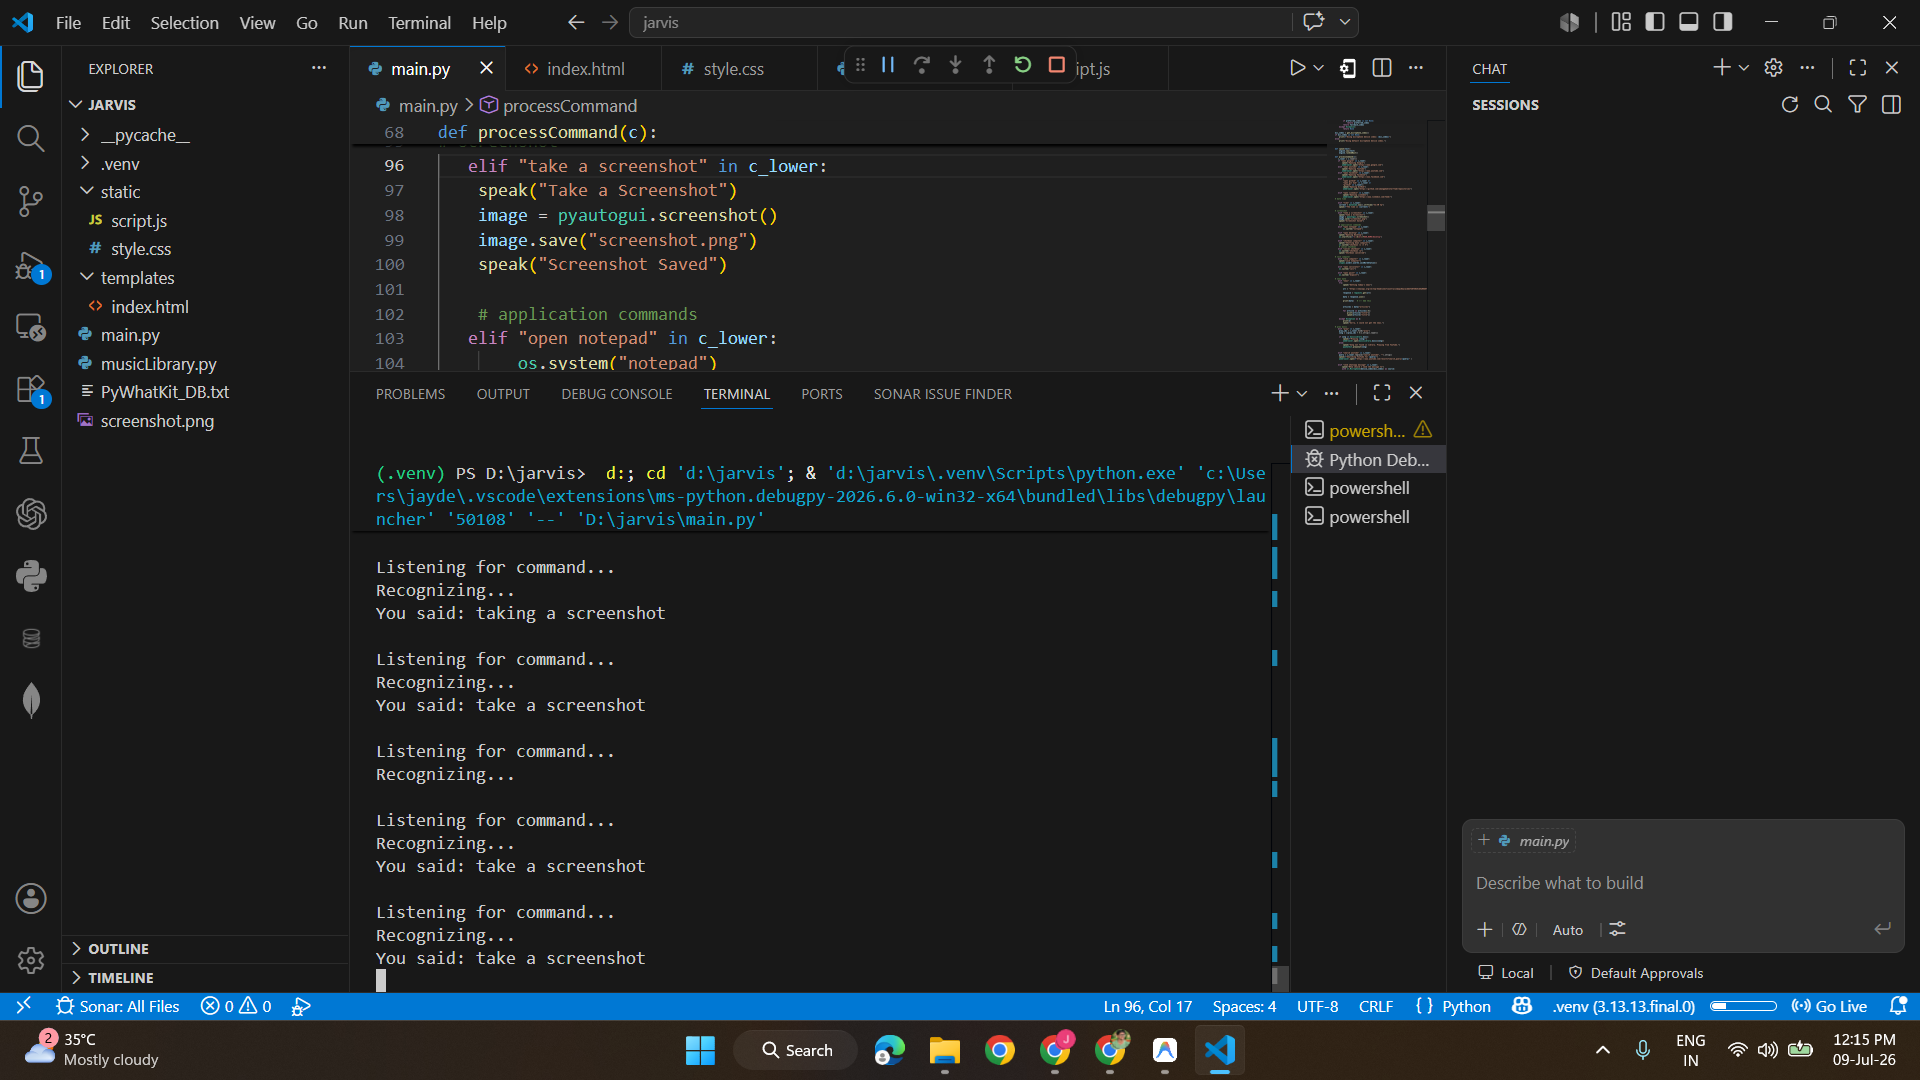
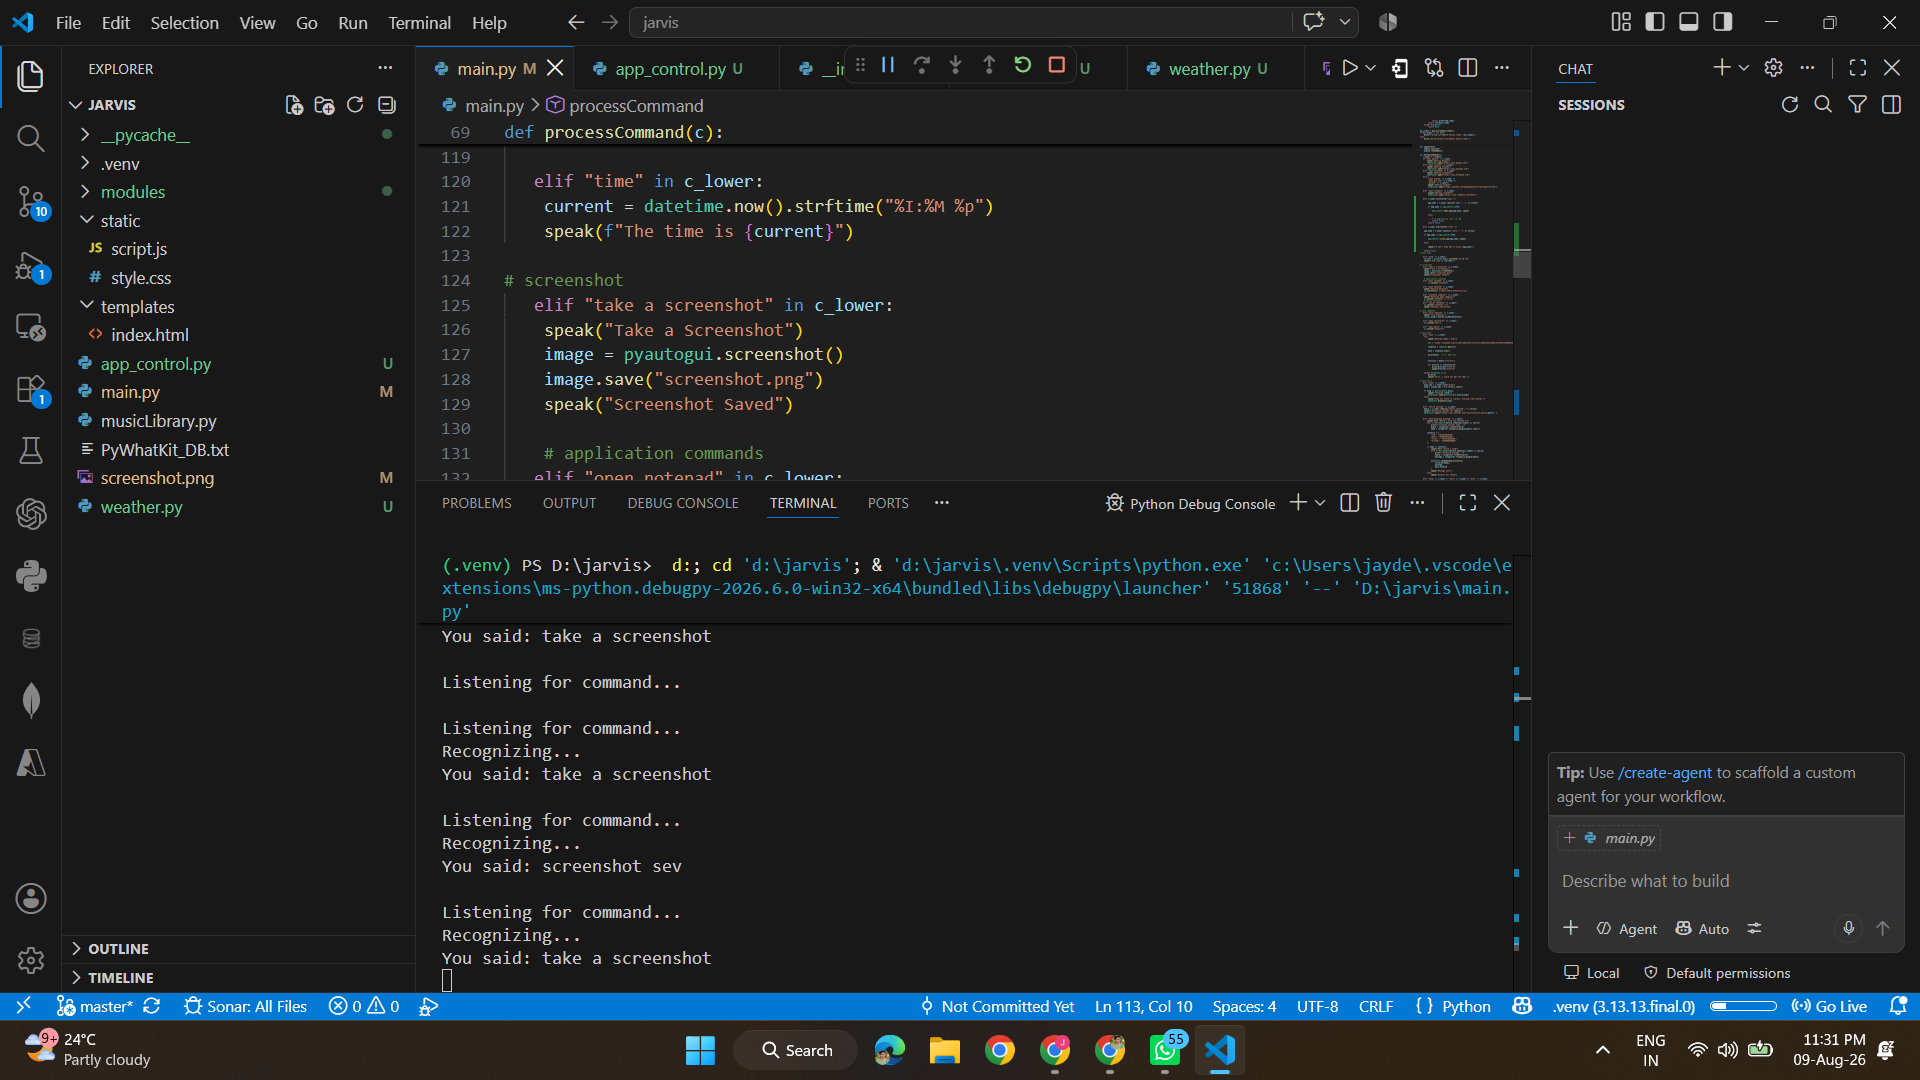
add_new_changes

diff --git a/weather.py b/weather.py
@@ -1,0 +1,81 @@
+import requests
+
+
+def get_weather(city, speak):
+
+    try:
+        geo_url = "https://geocoding-api.open-meteo.com/v1/search"
+
+        geo_params = {
+            "name": city,
+            "count": 1,
+            "language": "en",
+            "format": "json"
+        }
+
+        response = requests.get(
+            geo_url,
+            params=geo_params,
+            timeout=10
+        )
+
+        data = response.json()
+
+        if "results" not in data:
+            speak("Sorry, I could not find that city.")
+            return
+
+        latitude = data["results"][0]["latitude"]
+        longitude = data["results"][0]["longitude"]
+        city_name = data["results"][0]["name"]
+
+        weather_url = "https://api.open-meteo.com/v1/forecast"
+
+        weather_params = {
+            "latitude": latitude,
+            "longitude": longitude,
+            "current": "temperature_2m,relative_humidity_2m,weather_code",
+            "temperature_unit": "celsius"
+        }
+
+        response = requests.get(
+            weather_url,
+            params=weather_params,
+            timeout=10
+        )
+
+        weather = response.json()["current"]
+
+        temperature = weather["temperature_2m"]
+        humidity = weather["relative_humidity_2m"]
+        code = weather["weather_code"]
+
+        conditions = {
+            0: "clear sky",
+            1: "mainly clear",
+            2: "partly cloudy",
+            3: "cloudy",
+            45: "foggy",
+            48: "foggy",
+            51: "light rain",
+            53: "rain",
+            55: "heavy rain",
+            61: "light rain",
+            63: "rain",
+            65: "heavy rain",
+            80: "rain showers",
+            81: "rain showers",
+            82: "heavy rain showers",
+            95: "thunderstorm"
+        }
+
+        condition = conditions.get(code, "normal weather")
+
+        speak(
+            f"The weather in {city_name} is "
+            f"{temperature} degrees Celsius with {condition}. "
+            f"Humidity is {humidity} percent."
+        )
+
+    except Exception:
+        speak("Sorry, I could not get the weather.")

diff --git a/main.py b/main.py
@@ -9,7 +9,8 @@ import pyautogui
 import ctypes
 import platform
 import requests
-
+import weather
+import app_control
 
 NEWS_API_KEY = "acdd2f2873824cb5a06d67ee3ad16fce"
 
@@ -86,6 +87,34 @@ def processCommand(c):
    elif "open linkedin" in c_lower:
         speak("Opening LinkedIn")
         webbrowser.open("https://www.linkedin.com/feed/")
+  
+   elif c_lower.startswith("open "):
+
+        app_name = c_lower.replace("open ", "", 1).strip()
+
+        if app_name in app_control.APPS:
+
+            app_control.open_app(app_name, speak)
+
+        else:
+
+            # જો application list માં નથી
+            return False
+        return False
+        
+   elif c_lower.startswith("close "):
+
+    app_name = c_lower.replace("close ", "", 1).strip()
+                                       
+    if app_name in app_control.APPS:
+
+        app_control.close_app(app_name, speak)
+
+    else:
+
+        speak(f"I don't know how to close {app_name}")
+
+    return False     
 # date time
 
    elif "time" in c_lower:
@@ -105,7 +134,7 @@ def processCommand(c):
    
    elif "open desktop" in c_lower:
     speak("Opening Desktop")
-    os.startfile(r"C:\Users\YOUR_NAME\Desktop")
+    os.startfile(r"C:\Users\Public\Desktop")
     
    elif "shutdown computer" in c_lower:
     speak("Shutting down computer")
@@ -202,7 +231,27 @@ def processCommand(c):
    elif "stop" in c_lower or "exit" in c_lower or "quit" in c_lower:
        speak("Goodbye")
        return True
-       
+   
+#  ============= weather command =================
+   elif "weather" in c_lower:
+
+    # command માંથી city કાઢવી
+    city = c_lower.replace("what is the weather in", "")
+    city = city.replace("what's the weather in", "")
+    city = city.replace("weather in", "")
+    city = city.replace("weather at", "")
+    city = city.replace("weather of", "")
+    city = city.replace("?", "")
+    city = city.strip()
+
+    if city:
+        weather.get_weather(city, speak)
+    else:
+        speak("Please say the city name.")
+
+    return False
+
+
    return False
 #    elif c.lower().startswith("play"):
 #        song=c.lower().split(" ")[1]

diff --git a/app_control.py b/app_control.py
@@ -1,0 +1,72 @@
+import os
+import subprocess
+
+
+# =========================
+# APPLICATIONS
+# =========================
+
+APPS = {
+    "notepad": "notepad.exe",
+    "calculator": "calc.exe",
+    "paint": "mspaint.exe",
+    "chrome": "chrome.exe",
+    "edge": "msedge.exe",
+    "spotify": "spotify.exe",
+    "vs code": "Code.exe",
+    "vscode": "Code.exe",
+}
+
+
+# =========================
+# OPEN APPLICATION
+# =========================
+
+def open_app(app_name, speak):
+
+    app_name = app_name.lower().strip()
+
+    if app_name not in APPS:
+        speak(f"I don't know how to open {app_name}")
+        return
+
+    try:
+
+        subprocess.Popen(APPS[app_name])
+
+        speak(f"Opening {app_name}")
+
+    except Exception as e:
+
+        print("Open App Error:", e)
+
+        speak(f"Sorry, I could not open {app_name}")
+
+
+# =========================
+# CLOSE APPLICATION
+# =========================
+
+def close_app(app_name, speak):
+
+    app_name = app_name.lower().strip()
+
+    if app_name not in APPS:    
+        speak(f"I don't know how to close {app_name}")
+        return
+
+    process_name = APPS[app_name]
+
+    try:
+
+        os.system(
+            f'taskkill /f /im "{process_name}" >nul 2>&1'
+        )
+
+        speak(f"Closing {app_name}")
+
+    except Exception as e:
+
+        print("Close App Error:", e)
+
+        speak(f"Sorry, I could not close {app_name}")
